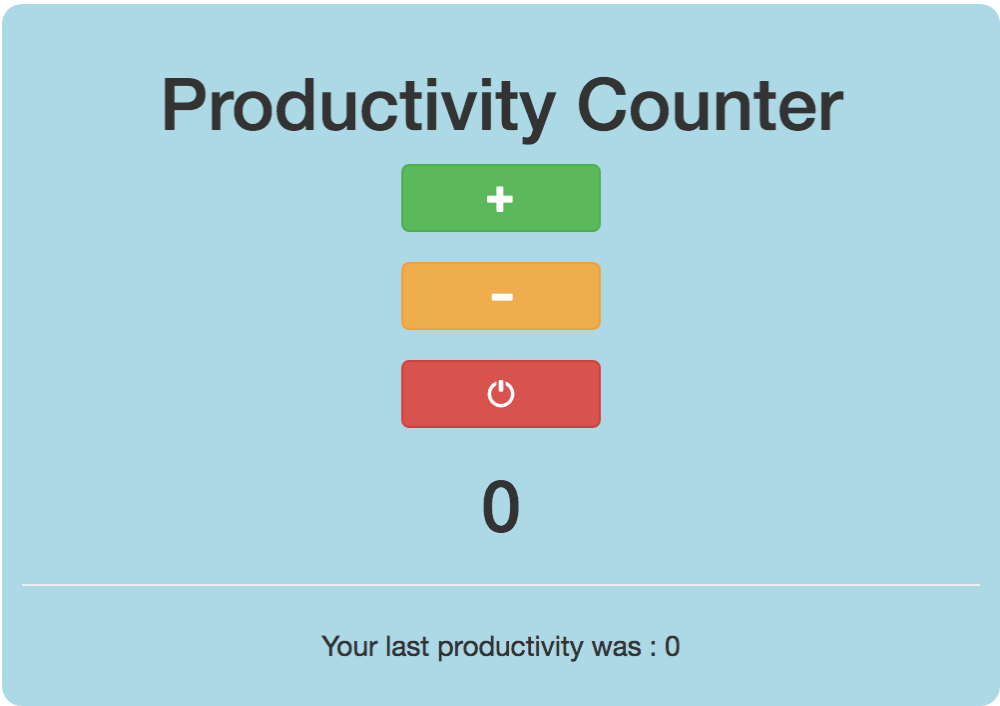
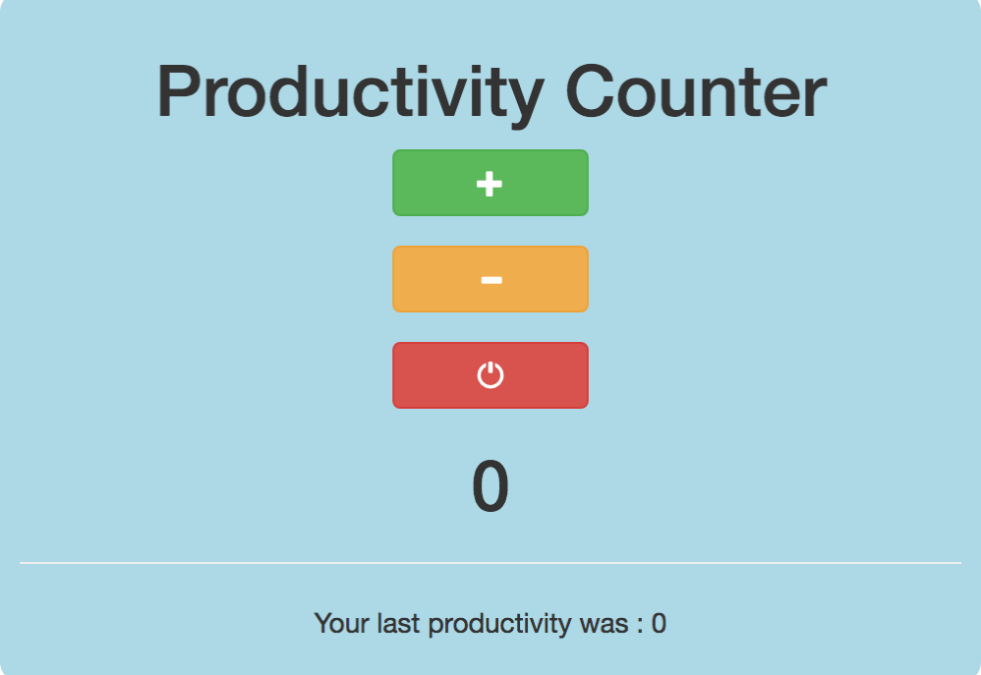
images croped and image effects add

diff --git a/index.html b/index.html
@@ -2,8 +2,10 @@
 <html lang="en-us">
 <head>
 <meta charset="utf-8">
+<meta http-equip="X-UA-COMPATIBLE" content="IE=edge">
 <meta name="viewport" content="width=device-width, initial-scale=1">
 <title>Beyene's Portfolio</title>
+<link href="https://fonts.googleapis.com/css?family=Lato:100,300" rel="stylesheet">
 <link rel="stylesheet" href="https://maxcdn.bootstrapcdn.com/bootstrap/3.3.7/css/bootstrap.min.css">
 <link rel="stylesheet" href="public/css/customcss.css">
 </head>
@@ -11,10 +13,10 @@
 <body>
     <div class="container-fluid">
         <div class="row">
-            <div class="col-md-6">
-                <img class="img-responsive title-logo" id="logo" alt="logo" src="assets/me.JPG" >
-            </div>
-            <div class="col-md-6 text-right text-uppercase">
+            <!--<div class="col-md-6">
+                <img class="img-responsive title-logo" id="logo" alt="logo image" src="assets/me.JPG" >
+            </div>-->
+            <div class="col-md-12 text-center text-uppercase">
                 <h1 class="title-super text-thin">Beyene Ayenew</h1>
                 <h4>Front-end Developer</h4>
             </div>
@@ -32,31 +34,31 @@
         <div class="row">
             <div class="col-md-12">
                 <h2 class="text-center text-muted">Featured Work</h2>
-                <hr/>
+                <!--<hr/>-->
             </div>
         </div>
         <div class="row text-center ">
             <div class="col-md-4">
                 <div class="thumbnail">
-                    <img class="featured  img-responsive" alt="RGBcolorgame" src="assets/rgbgame.png">
+                    <img class="img-featured  img-responsive" alt="RGBcolorgame" src="assets/rgbgame.png">
                     <div class="caption">
                         <h4>RGB color game</h4>
-                        <a href="https://beyene2.github.io/RGBcolor_game/" target="_blank"> Play RGB color game </a>
+                        <a href="https://beyene2.github.io/RGBcolor_game/" target="_blank"> Play </a>
                     </div>
                 </div>
             </div>
             <div class="col-md-4">
                 <div class="thumbnail">
-                    <img class=" featured  img-responsive" alt="" src="assets/ecs2.png">
+                    <img class=" img-featured  img-responsive" alt="" src="assets/ecs2.png">
                     <div class="caption">
-                        <h4>Ethiopian Community in Seattle Annual Fundraising Gala</h4>
+                        <h4>Ethiopian Community in Seattle</h4>
                         <a href="https://ecseattle.github.io/events-2017-annualfundraisinggala/" target="_blank"> View ECSeattle page </a>
                     </div>
                 </div>
             </div>
             <div class="col-md-4">
                 <div class="thumbnail">
-                    <img class="featured  img-responsive" alt="" src="assets/counter.png">
+                    <img class="img-featured  img-responsive" alt="" src="assets/counter.png">
                     <div class="caption">
                         <h4>Productivity Counter</h4>
                         <a href="https://beyene2.github.io/counter/" target="_blank"> View site </a>

diff --git a/public/css/customcss.css b/public/css/customcss.css
@@ -1,7 +1,8 @@
 body{
-    font-family: Lato,sans-serif;
+    font-family: 'Lato', sans-serif;
     color: #747704;
     font-weight: 300;
+    background-color: #f1f1f1;
 }
 .text-muted{
     color: #BCBBBB;
@@ -17,13 +18,17 @@ body{
 }
 #logo{
     border-radius:50%;
-    width:100px;
+    max-width:300px;
+    min-width: 100px;
 }
 
 #me{
+    border-radius:1%;
+}
+.img-featured:hover {
+   -webkit-transform: scaleY(-1);
+    transform: scaleY(2);
     border-radius:3%;
 }
 
-.featured{
-    border-radius:2%;
-}
+
